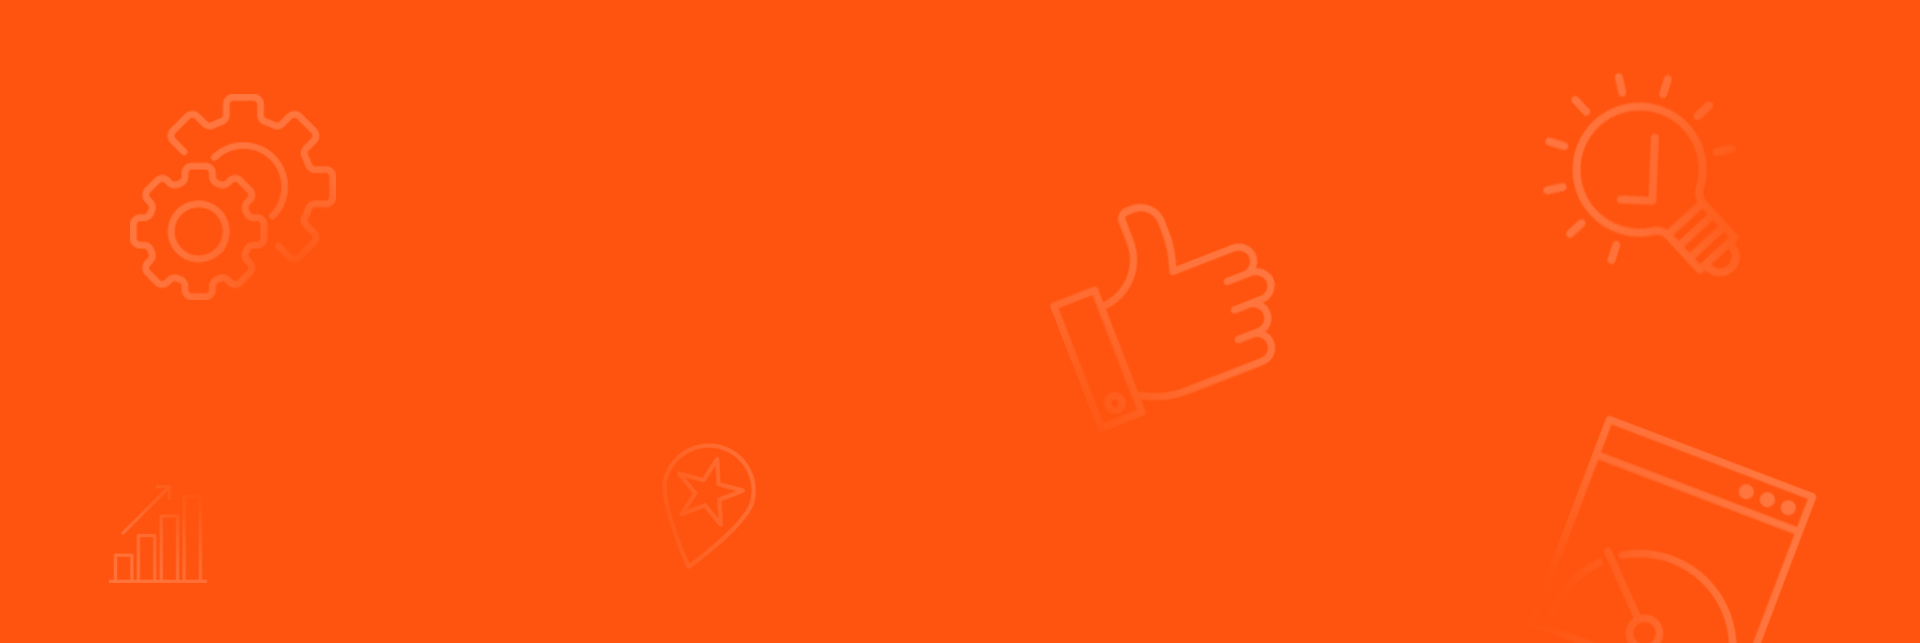
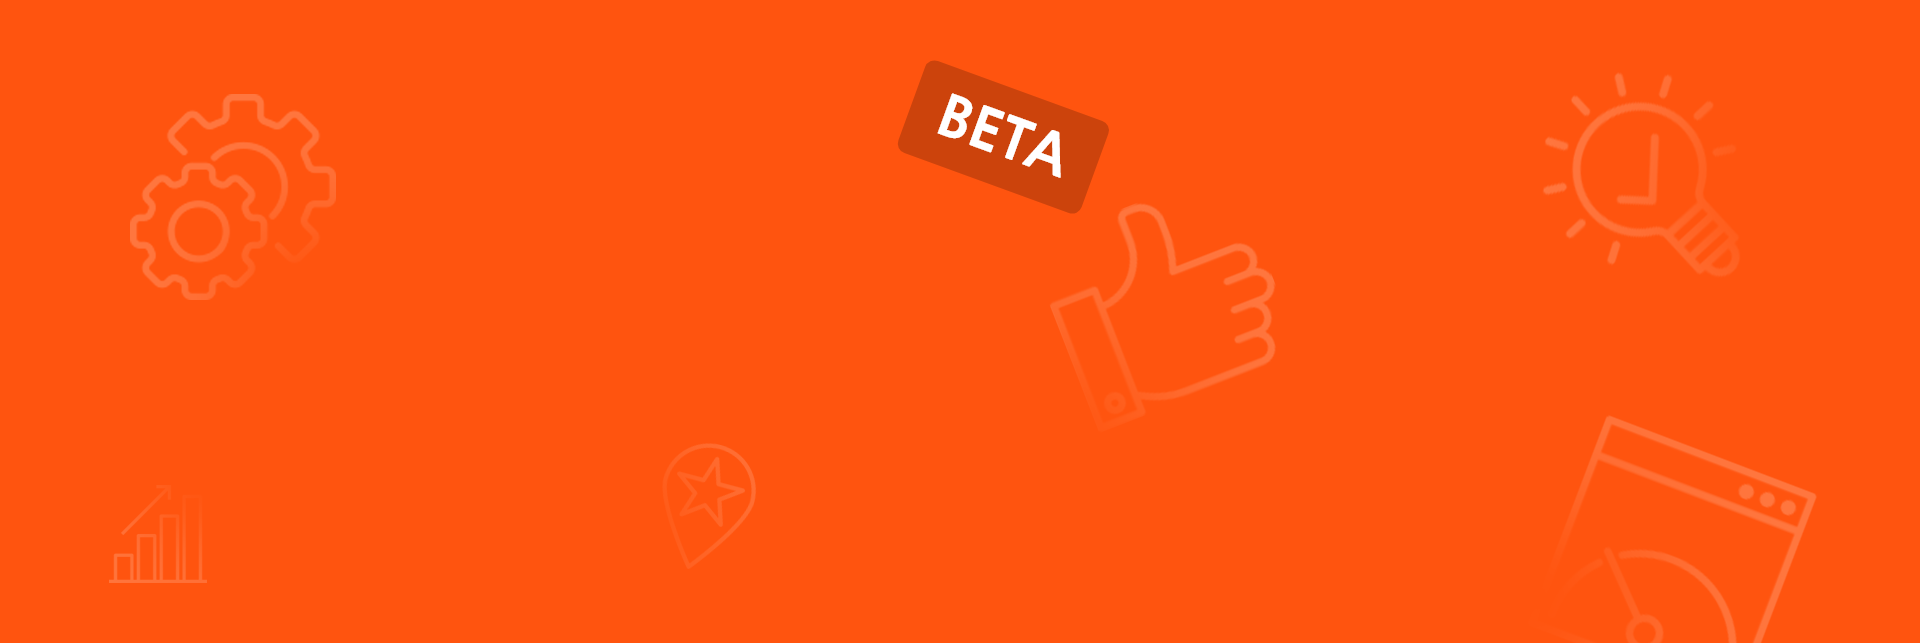
- 아이디찾기 / 한 번호로 여러 아이디 가입했을 때 / '입력하신 연락처로 등록된 아이디가 없습니다.' 출력 / 등록한 아이디 목록들 띄우기 - 프로필관리 / 수정이 안됨 (판매자, 공급자 공통) - 거래처매칭 / 마감한 거래들 -> 지원하기가 됩니다. / 지원하기 막기 - 사이트에 베타버전 표기하기

Changed region(s): [[0.4688, 0.0933, 0.5938, 0.3421]]

diff --git a/src/main/webapp/resources/assets/css/detailProject.css b/src/main/webapp/resources/assets/css/detailProject.css
@@ -50,7 +50,6 @@
 }
 .projDetail{
   width: 100%;
-  height: 53px;
   margin-bottom: 32px;
 }
 .projDetail a{
@@ -80,7 +79,6 @@ a:focus, a:hover{
 .titleBox{
 	display: inline-block;
 	max-width: 540px;
-	height: 53px;
 	font-size: 22px;
 	font-weight: 800;
 	font-stretch: normal;

diff --git a/src/main/webapp/resources/assets/css/custom.css b/src/main/webapp/resources/assets/css/custom.css
@@ -11,6 +11,9 @@ body  a a:focus a:hover{
 button:focus button:active button:hover{
     outline:none !important;
 }
+button[disabled], html input[disabled] {
+    cursor: not-allowed !important;
+}
 
 body.modal-open[style] {
 

diff --git a/src/main/java/kr/co/wesellglobal/sellermatch/service/impl/MemberServiceImpl.java b/src/main/java/kr/co/wesellglobal/sellermatch/service/impl/MemberServiceImpl.java
@@ -152,11 +152,11 @@ public class MemberServiceImpl implements MemberService{
 	}
 
 	@Override
-	public String idFindService(MemberDto input) throws Exception {
-		String result = null;
+	public List<String> idFindService(MemberDto input) throws Exception {
+		List<String> result = null;
 		
 		try {
-			result = sqlSession.selectOne("MemberMapper.findId", input);
+			result = sqlSession.selectList("MemberMapper.findId", input);
 			if (result == null) {
 				throw new NullPointerException("result=null");
 			}

diff --git a/src/main/java/kr/co/wesellglobal/sellermatch/model/ProfileDto.java b/src/main/java/kr/co/wesellglobal/sellermatch/model/ProfileDto.java
@@ -144,7 +144,10 @@ public class ProfileDto {
 	private String[] profileVolumeArr;
 	 
 	public String setProfileVolume(String profileVolume) {
-		return this.profileVolume = profileVolume.replace(",", ""); 
+		if (profileVolume != null) {
+			return this.profileVolume = profileVolume.replace(",", ""); 
+		}
+		return this.profileVolume = profileVolume;
 	}
 	
 	 public static int getOffset() {

diff --git a/src/main/java/kr/co/wesellglobal/sellermatch/service/MemberService.java b/src/main/java/kr/co/wesellglobal/sellermatch/service/MemberService.java
@@ -24,7 +24,7 @@ public interface MemberService {
 	
 	public int getMemberCount(MemberDto input) throws Exception;
 	
-	public String idFindService(MemberDto input) throws Exception;
+	public List<String> idFindService(MemberDto input) throws Exception;
 	
 	public void pwChangeService(MemberDto input) throws Exception;
 	

diff --git a/src/main/java/kr/co/wesellglobal/sellermatch/controller/rest/MemberRestController.java b/src/main/java/kr/co/wesellglobal/sellermatch/controller/rest/MemberRestController.java
@@ -444,7 +444,7 @@ public class MemberRestController {
 		MemberDto input = new MemberDto();
 		input.setMemTel(memTel);
 		
-		String result = null;
+		List<String> result = null;
 		
 		try {
 			result = memberService.idFindService(input);
